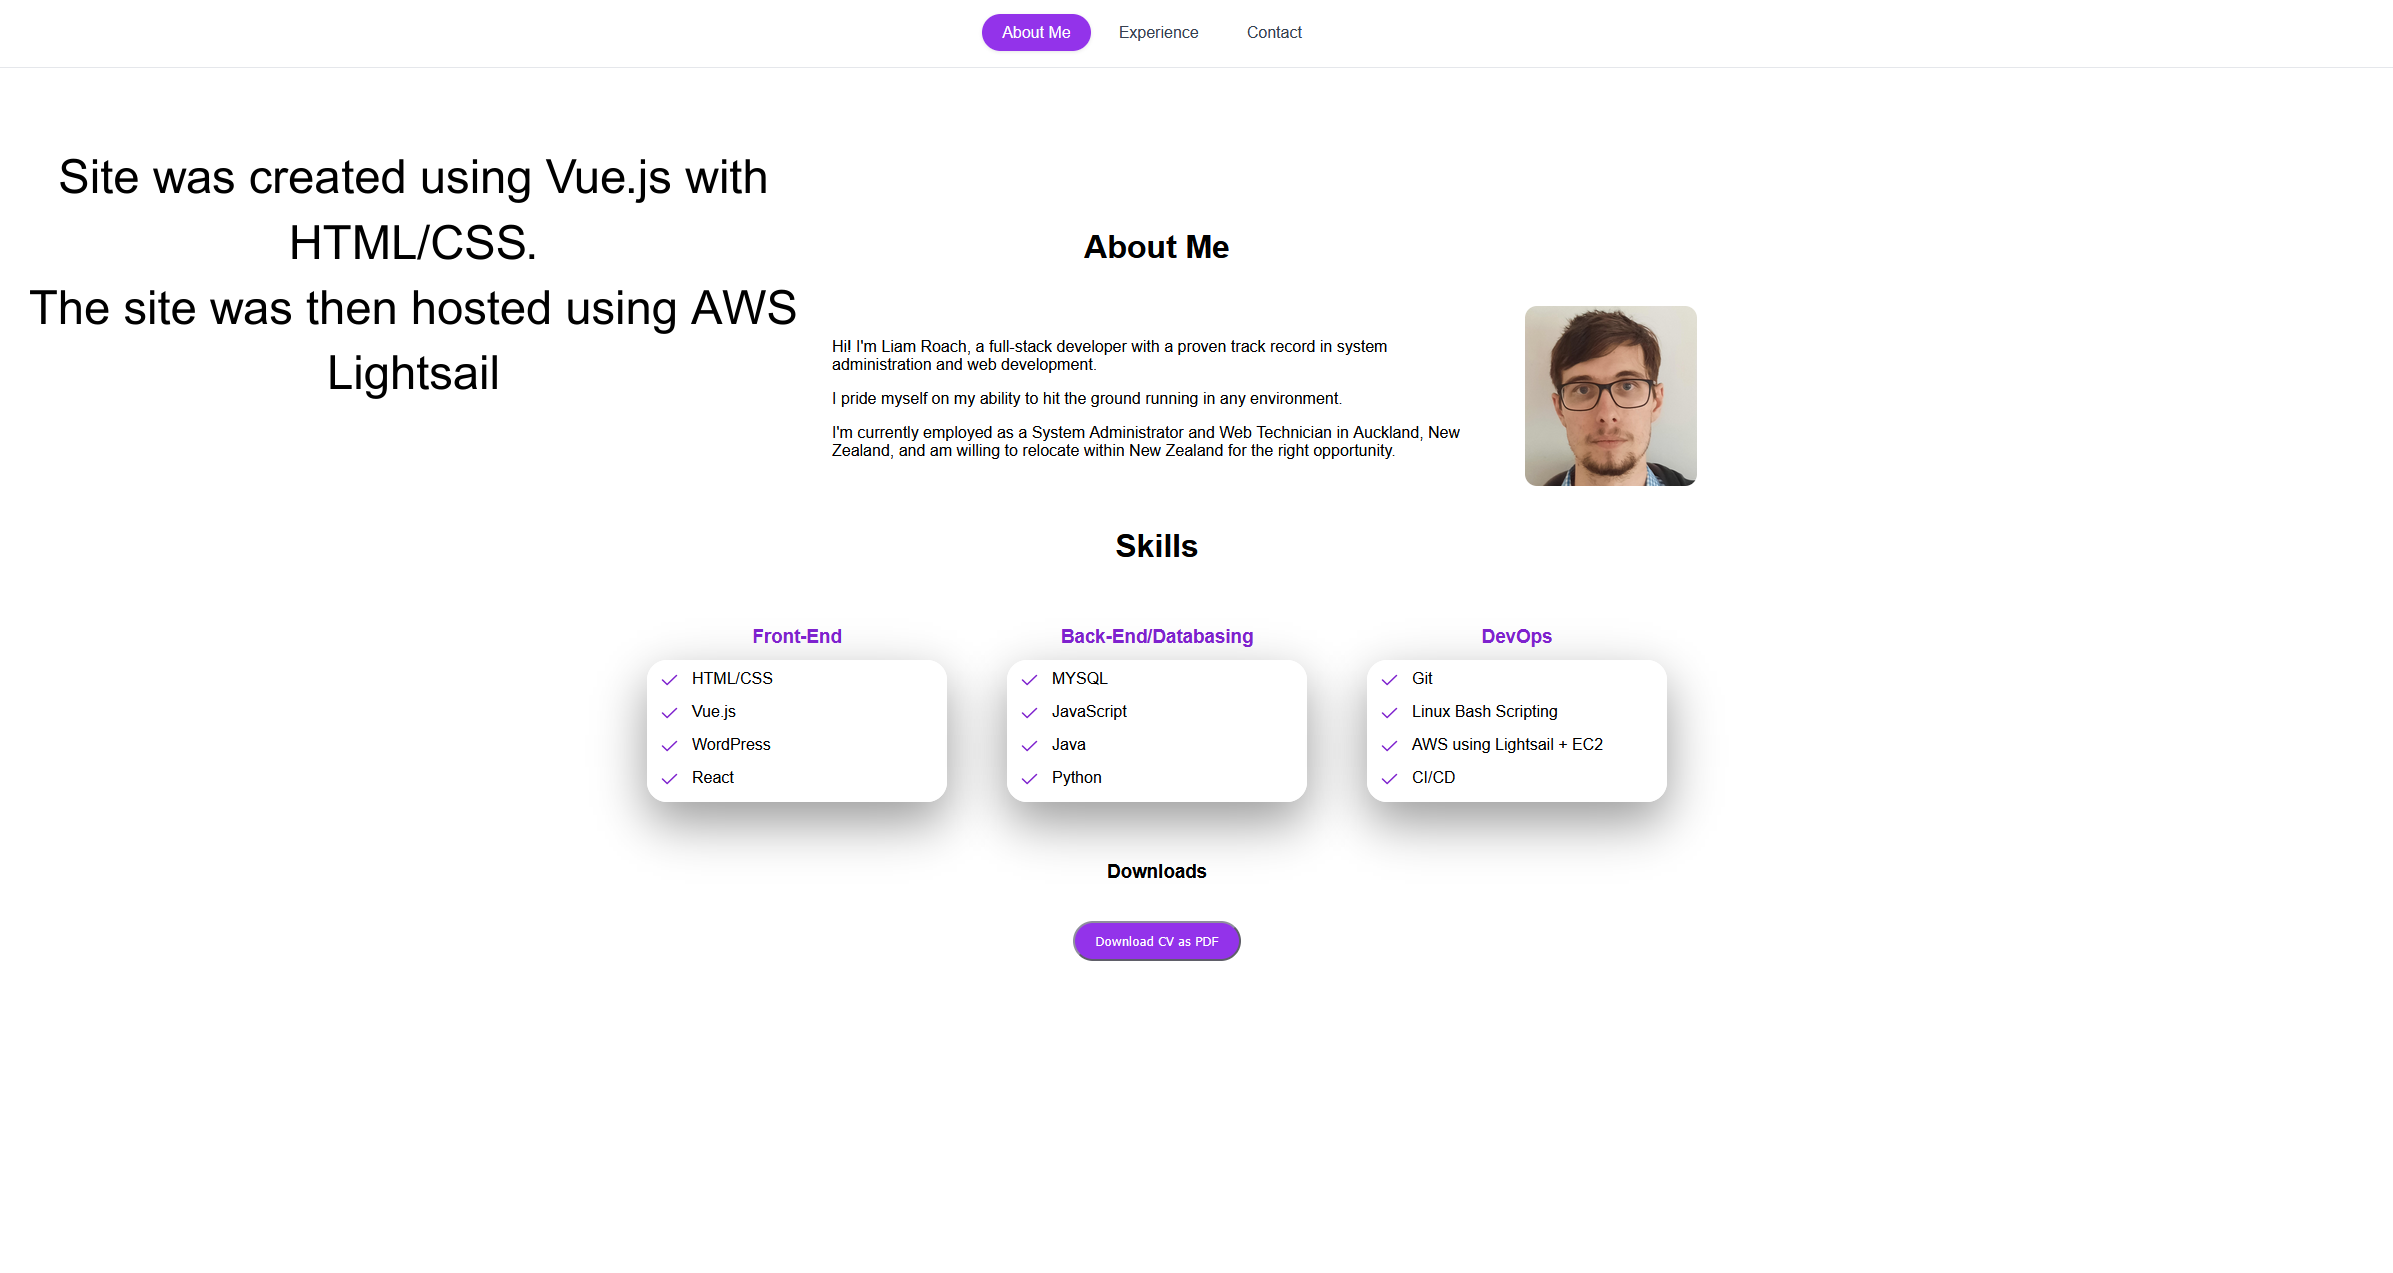
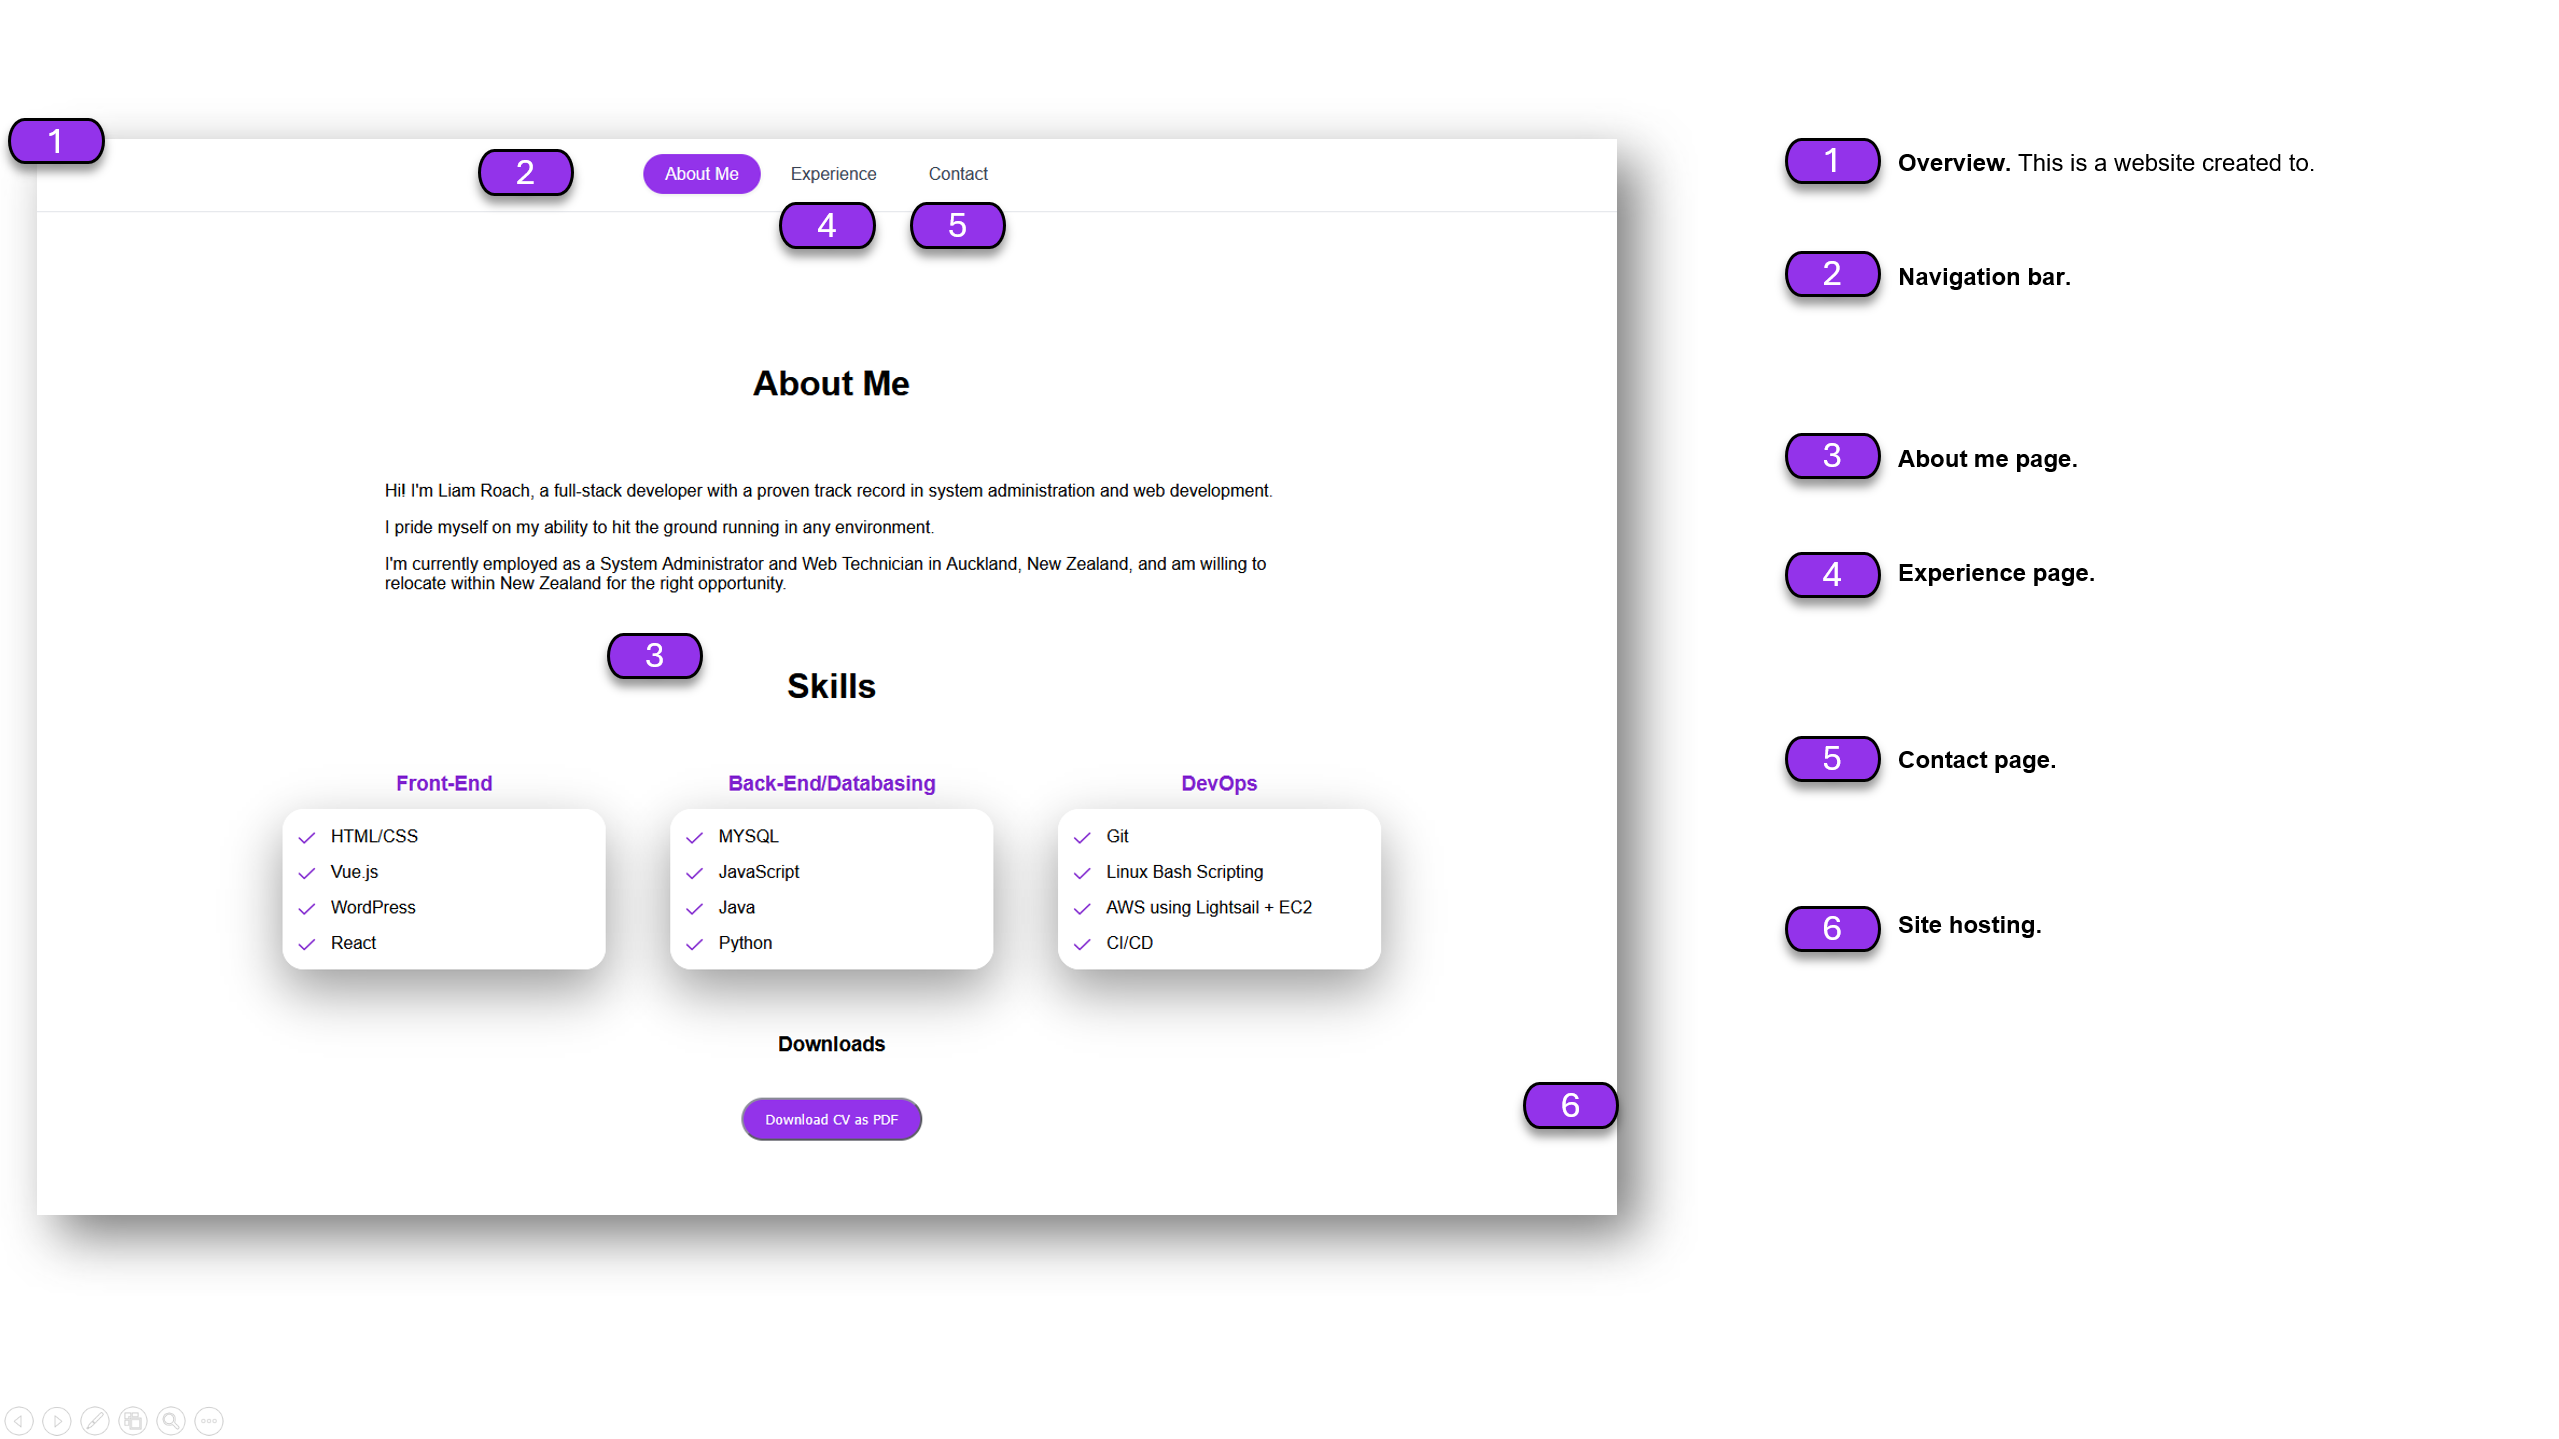
Changed top margin to better work with 1080p displays, changed images on experience page

diff --git a/src/components/WorkHistory.vue b/src/components/WorkHistory.vue
@@ -50,9 +50,9 @@
 </template>
 
 <script>
-import ImpactReport from "/src/assets/Impact.jpg";
-import PerformersWorkshop from "/src/assets/Perf.jpg";
-import OGA from "/src/assets/OGA.jpg";
+import ImpactReport from "/src/assets/Impact.png";
+import PerformersWorkshop from "/src/assets/Perf.png";
+import OGA from "/src/assets/OGA.png";
 import VueWebsite from "/src/assets/VueWebsite.png";
 
 export default {
@@ -116,7 +116,7 @@ export default {
 
 <style scoped>
 .projects {
-  padding: 100px 20px;
+  padding: 80px 20px;
   padding-left: 60px;
 }
 

diff --git a/src/components/ContactInfo.vue b/src/components/ContactInfo.vue
@@ -73,7 +73,7 @@ export default {
 <style scoped>
   .contact {
   text-align: center;
-  padding: 100px 40px;
+  padding: 80px 40px;
   padding-left: 80px;
 }
 

diff --git a/src/components/HomePage.vue b/src/components/HomePage.vue
@@ -93,7 +93,7 @@ export default {
 <style scoped>
 
 .page-title {
-  margin-top: 20px;
+  margin-top:0px;
   margin-bottom: 20px;
   text-align: center;
 }
